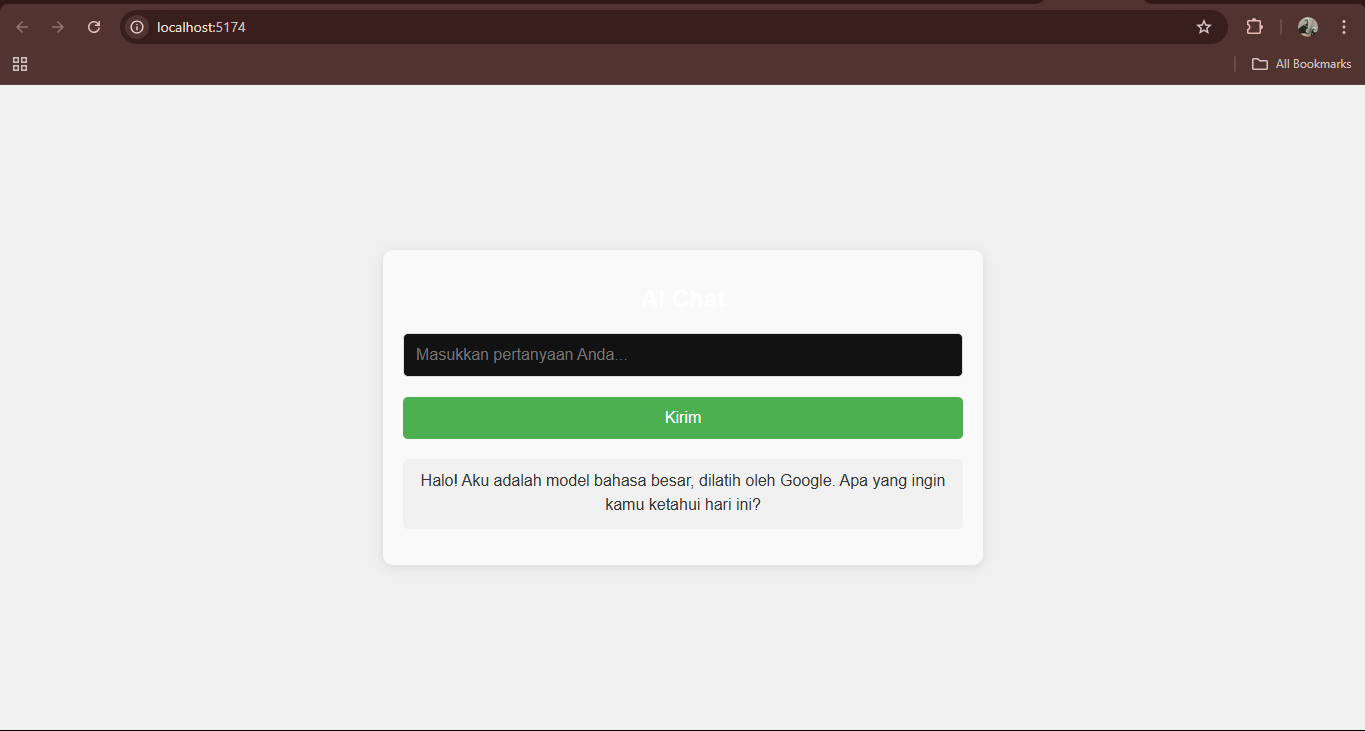
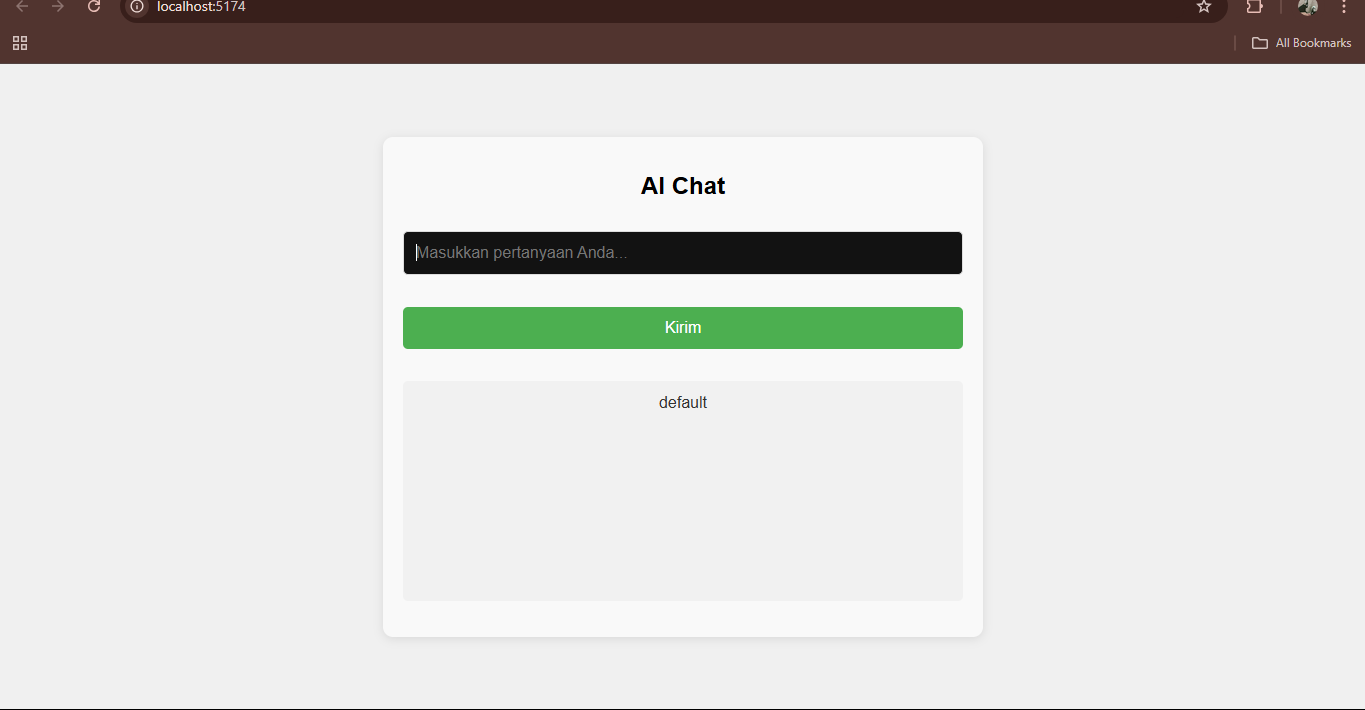
update praktikum

diff --git a/24. Perkenalan AI/praktikum/src/App.css b/24. Perkenalan AI/praktikum/src/App.css
@@ -10,18 +10,23 @@ body {
 .container {
   font-family: Arial, sans-serif;
   padding: 20px;
-  max-width: 600px;
   margin: 0 auto;
   background-color: #f9f9f9;
   border-radius: 10px;
   box-shadow: 0 2px 10px rgba(0, 0, 0, 0.1);
   width: 100%;
+  width: 600px;
+  min-height: 500px;
+  display: flex;
+  flex-direction: column;
+  justify-content: space-between;
   box-sizing: border-box;
 }
 
 h1 {
   text-align: center;
   font-size: 24px;
+  color: black;
   margin-bottom: 20px;
 }
 
@@ -59,6 +64,7 @@ h1 {
   border-radius: 5px;
   font-size: 16px;
   color: #333;
-  min-height: 50px;
+  height: 200px;
+  overflow-y: auto;
   text-align: center;
 }
